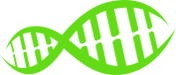
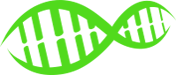
Modification gène + mailto (home)

diff --git a/View/index.html b/View/index.html
@@ -618,14 +618,14 @@
           </a>
         </div>
         <div class="reassurance First col-xs-12 col-sm-6 col-md-3">
-          <a href="https://docs.google.com/forms/d/e/1FAIpQLSdSuPG1NjKIn7Y5W0mCQs0JNFv4LwbavQRiE2ql-_U5J279SA/viewform?c=0&w=1&usp=send_form">
+          <a target="_blank" href="https://docs.google.com/forms/d/e/1FAIpQLSdSuPG1NjKIn7Y5W0mCQs0JNFv4LwbavQRiE2ql-_U5J279SA/viewform?c=0&w=1&usp=send_form">
           <img src='../Img/General/benevole.svg'/>
             <h2>DEVENIR BÉNÉVOLE</h2>
             <p>On fait des réunions sympas.</p>
           </a>
         </div>
         <div class="reassurance Second col-xs-12 col-sm-6 col-md-3">
-          <a href="mailto:contact@gaming-gen.fr?subject=Devenir Exposant GG6">
+          <a target="_blank" href="mailto:contact@gaming-gen.fr?subject=Devenir Exposant GG6">
             <img src='../Img/exposant.svg'/>
             <h2>DEVENIR EXPOSANT</h2>
             <p>Grande renommée pour toi !</p>

diff --git a/View/Style/main.css b/View/Style/main.css
@@ -1240,7 +1240,6 @@ height:25vw;
     position: absolute;
     top: 0px;
     left: 50%;
-    transform:rotate(180deg);
 }
 .articles{
   position:relative;

diff --git a/README.md b/README.md
@@ -222,4 +222,7 @@ Installation Dev (Cloude9 - Ubuntu 14.04 LTS):
 
 10. Tests (Obligatoire !!!)
         - https://www.grafikart.fr/formations/javascript-unit-test/test-angularjs-mocks
+
+11. MailTo :
+        - https://blog.hubspot.com/marketing/set-gmail-as-browser-default-email-client-ht
 ```
